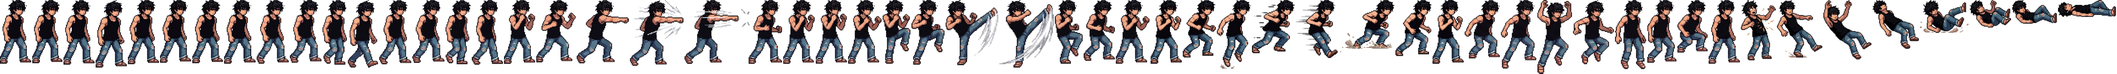
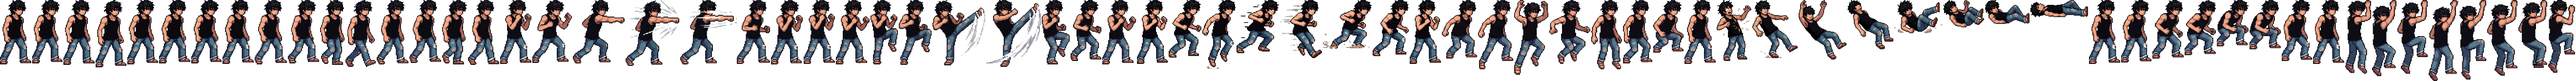
Rod: sprites de agachar e escalar; borda branca do JPG removida dos sprites
Claude-Session: https://claude.ai/code/session_01ELunBH6xPqmejkKKecMgg3

diff --git a/js/rod_sprite.js b/js/rod_sprite.js
@@ -2,8 +2,9 @@
 //  SPRITES DO ROD (assets/rod.png) — arte do autor (fundo branco removido, 0,32×)
 //  idle0..7 parado · walk0..7 andando · punch0..7 soco · kick0..7 chute
 //  dash0..7 esquiva/arrancada · jump0..7 pulo · hurt0 dano, hurt1..7 queda (morte)
+//  crouch0..7 agachar (0-4 descendo, 5-7 levantando) · climb0..7 escalando (parede à direita)
 //  Cada quadro: [x, y, largura, altura, âncoraX, âncoraY (pés)]
 // =============================================================
-const ROD_FRAMES = {"idle0": [0, 0, 64, 132, 35.8, 131.8], "idle1": [66, 0, 62, 131, 37.6, 130.6], "idle2": [130, 0, 64, 134, 36.2, 134.1], "idle3": [196, 0, 64, 140, 36.0, 139.5], "idle4": [262, 0, 64, 133, 37.6, 133.1], "idle5": [328, 0, 64, 130, 37.6, 130.2], "idle6": [394, 0, 63, 131, 37.9, 130.9], "idle7": [459, 0, 65, 132, 36.3, 131.8], "walk0": [526, 0, 66, 132, 38.1, 132.2], "walk1": [594, 0, 65, 130, 39.0, 130.2], "walk2": [661, 0, 50, 134, 30.1, 134.1], "walk3": [713, 0, 62, 140, 35.8, 139.5], "walk4": [777, 0, 66, 133, 39.0, 132.8], "walk5": [845, 0, 66, 130, 38.9, 129.9], "walk6": [913, 0, 52, 133, 32.5, 132.8], "walk7": [967, 0, 64, 134, 35.2, 134.1], "punch0": [1033, 0, 64, 132, 37.6, 131.5], "punch1": [1099, 0, 81, 129, 51.8, 129.3], "punch2": [1182, 0, 107, 131, 56.8, 130.6], "punch3": [1291, 0, 110, 136, 62.6, 135.7], "punch4": [1403, 0, 114, 132, 60.0, 131.8], "punch5": [1519, 0, 84, 132, 39.5, 131.8], "punch6": [1605, 0, 65, 132, 38.2, 131.8], "punch7": [1672, 0, 64, 132, 37.8, 131.8], "kick0": [1738, 0, 69, 132, 36.3, 132.2], "kick1": [1809, 0, 57, 132, 24.0, 132.5], "kick2": [1868, 0, 68, 134, 32.6, 134.1], "kick3": [1938, 0, 108, 135, 55.8, 134.7], "kick4": [2048, 0, 112, 140, 63.5, 139.8], "kick5": [2162, 0, 57, 132, 25.0, 132.2], "kick6": [2221, 0, 64, 126, 38.9, 125.8], "kick7": [2287, 0, 69, 132, 36.0, 131.8], "dash0": [2358, 0, 64, 132, 36.3, 131.8], "dash1": [2424, 0, 68, 119, 47.2, 119.4], "dash2": [2494, 0, 70, 142, 47.5, 141.8], "dash3": [2566, 0, 88, 110, 60.0, 109.8], "dash4": [2656, 0, 93, 120, 47.0, 120.0], "dash5": [2751, 0, 107, 101, 84.6, 100.8], "dash6": [2860, 0, 74, 116, 55.4, 115.5], "dash7": [2936, 0, 64, 132, 34.9, 131.5], "jump0": [3002, 0, 72, 121, 53.1, 120.6], "jump1": [3076, 0, 73, 142, 49.1, 142.4], "jump2": [3151, 0, 71, 153, 35.2, 153.3], "jump3": [3224, 0, 84, 133, 44.6, 133.4], "jump4": [3310, 0, 64, 143, 37.9, 143.0], "jump5": [3376, 0, 60, 130, 36.3, 130.2], "jump6": [3438, 0, 62, 109, 39.2, 109.1], "jump7": [3502, 0, 64, 132, 34.9, 131.8], "hurt0": [3568, 0, 72, 125, 38.2, 125.4], "hurt1": [3642, 0, 93, 119, 53.1, 119.0], "hurt2": [3737, 0, 99, 123, 66.6, 122.6], "hurt3": [3838, 0, 95, 101, 67.2, 101.4], "hurt4": [3935, 0, 100, 68, 44.5, 68.5], "hurt5": [4037, 0, 85, 57, 48.8, 56.6], "hurt6": [4124, 0, 92, 49, 51.8, 49.3], "hurt7": [4218, 0, 119, 35, 60.2, 35.2]};
+const ROD_FRAMES = {"idle0": [0, 0, 64, 132, 35.0, 131.5], "idle1": [66, 0, 62, 130, 37.3, 129.9], "idle2": [130, 0, 64, 133, 35.0, 133.4], "idle3": [196, 0, 63, 138, 36.0, 137.6], "idle4": [261, 0, 63, 132, 37.3, 132.5], "idle5": [326, 0, 64, 130, 36.8, 129.6], "idle6": [392, 0, 62, 130, 37.4, 130.2], "idle7": [456, 0, 64, 131, 35.0, 131.2], "walk0": [522, 0, 66, 132, 37.0, 131.5], "walk1": [590, 0, 64, 130, 38.7, 129.9], "walk2": [656, 0, 50, 133, 30.2, 133.4], "walk3": [708, 0, 62, 137, 35.8, 137.3], "walk4": [772, 0, 65, 132, 38.9, 132.2], "walk5": [839, 0, 65, 129, 38.6, 129.3], "walk6": [906, 0, 51, 132, 32.2, 132.2], "walk7": [959, 0, 64, 133, 35.2, 133.4], "punch0": [1025, 0, 64, 131, 37.4, 130.9], "punch1": [1091, 0, 81, 129, 51.4, 128.6], "punch2": [1174, 0, 106, 130, 55.7, 129.9], "punch3": [1282, 0, 110, 135, 62.2, 135.4], "punch4": [1394, 0, 110, 132, 64.8, 131.5], "punch5": [1506, 0, 72, 131, 47.0, 131.2], "punch6": [1580, 0, 65, 132, 37.9, 131.5], "punch7": [1647, 0, 64, 131, 37.6, 130.9], "kick0": [1713, 0, 69, 132, 35.0, 131.5], "kick1": [1784, 0, 56, 132, 23.7, 132.2], "kick2": [1842, 0, 67, 133, 31.7, 133.4], "kick3": [1911, 0, 108, 134, 56.0, 134.1], "kick4": [2021, 0, 112, 137, 63.7, 137.3], "kick5": [2135, 0, 57, 132, 24.0, 131.5], "kick6": [2194, 0, 63, 125, 38.7, 125.1], "kick7": [2259, 0, 69, 132, 35.0, 131.5], "dash0": [2330, 0, 63, 131, 35.2, 131.2], "dash1": [2395, 0, 67, 118, 46.7, 118.4], "dash2": [2464, 0, 68, 141, 46.6, 141.4], "dash3": [2534, 0, 87, 109, 60.0, 109.4], "dash4": [2623, 0, 86, 119, 46.1, 119.4], "dash5": [2711, 0, 100, 100, 77.6, 100.2], "dash6": [2813, 0, 74, 115, 54.9, 114.9], "dash7": [2889, 0, 64, 131, 34.6, 131.2], "jump0": [2955, 0, 72, 120, 52.3, 120.0], "jump1": [3029, 0, 72, 142, 47.5, 141.8], "jump2": [3103, 0, 70, 153, 34.9, 152.6], "jump3": [3175, 0, 84, 131, 44.6, 131.2], "jump4": [3261, 0, 63, 142, 37.6, 142.4], "jump5": [3326, 0, 60, 130, 35.0, 129.9], "jump6": [3388, 0, 62, 108, 39.2, 108.5], "jump7": [3452, 0, 64, 131, 35.0, 131.2], "hurt0": [3518, 0, 71, 125, 37.9, 124.8], "hurt1": [3591, 0, 93, 119, 51.7, 118.7], "hurt2": [3686, 0, 98, 122, 66.4, 121.9], "hurt3": [3786, 0, 94, 101, 66.9, 101.1], "hurt4": [3882, 0, 98, 68, 46.6, 67.8], "hurt5": [3982, 0, 84, 56, 48.3, 56.0], "hurt6": [4068, 0, 91, 49, 51.8, 48.6], "hurt7": [4161, 0, 118, 35, 59.7, 34.9], "crouch0": [4281, 0, 64, 131, 34.9, 130.9], "crouch1": [4347, 0, 62, 128, 38.2, 128.3], "crouch2": [4411, 0, 64, 120, 43.7, 119.7], "crouch3": [4477, 0, 64, 113, 45.1, 112.6], "crouch4": [4543, 0, 65, 95, 46.2, 95.0], "crouch5": [4610, 0, 64, 101, 41.8, 100.8], "crouch6": [4676, 0, 62, 125, 39.4, 124.8], "crouch7": [4740, 0, 64, 131, 35.2, 130.9], "climb0": [4806, 0, 53, 151, 28.8, 151.0], "climb1": [4861, 0, 50, 156, 25.0, 156.2], "climb2": [4913, 0, 62, 151, 35.2, 151.0], "climb3": [4977, 0, 61, 166, 34.9, 166.4], "climb4": [5040, 0, 55, 163, 27.5, 162.9], "climb5": [5097, 0, 62, 155, 34.6, 154.6], "climb6": [5161, 0, 59, 139, 33.3, 138.9], "climb7": [5222, 0, 55, 149, 28.8, 149.4]};
 const rodImg = new Image();
 rodImg.src = 'assets/rod.png?v=' + ASSET_V;

diff --git a/js/render.js b/js/render.js
@@ -376,7 +376,10 @@ function shadowAt(x, y, w) {
 
 // poses do Rod (socos/chutes, esquiva com dash, pulo em fases)
 function rodPose(p) {
-  if (p.wall) return 'jump4';
+  // agachar: desce (crouch2→4) e, ao soltar, levanta (crouch5→6)
+  if (p.crouch) { if (p._cStart == null) p._cStart = G.time; p._uStart = null; }
+  else if (p._cStart != null) { p._cStart = null; p._uStart = G.time; }
+  if (p.wall) return 'climb' + (Math.floor(p.climbAnim / 6) % 8);
   if (p.dashT > 0) return p.rollPose();
   if (p.stun > 0) return p.stun > 0.12 ? 'hurt0' : 'hurt1';
   if (p.atkKind) {
@@ -384,7 +387,8 @@ function rodPose(p) {
     const seq = p.atkKind === 'kick' ? [1, 2, 3, 4, 5, 6] : [1, 2, 3, 4, 5, 6];
     return p.atkKind + seq[Math.min(5, Math.floor(prog * 6))];
   }
-  if (p.crouch) return 'jump6';
+  if (p.crouch) { const t = G.time - p._cStart; return t < 0.04 ? 'crouch2' : t < 0.08 ? 'crouch3' : 'crouch4'; }
+  if (p._uStart != null && p.onGround && Math.abs(p.vx) < 15 && G.time - p._uStart < 0.1) return G.time - p._uStart < 0.05 ? 'crouch5' : 'crouch6';
   if (p.sprintT > 0) return 'dash' + (Math.floor(G.time * 20) % 2 ? 4 : 3);
   if (!p.onGround) return p.vy < -150 ? 'jump2' : p.vy < 90 ? 'jump3' : 'jump4';
   if (Math.abs(p.vx) > 15) return 'walk' + (Math.floor(p.anim / 7) % 8);
@@ -469,8 +473,8 @@ function drawPlayer() {
   const pose = heroPose(p);
   const alpha = p.inv > 0 && Math.floor(p.inv * 12) % 2 === 0 ? 0.35 : 1;
   if (p.wall && isRod()) {                                 // Rod agarrado: encosta na parede
-    const wx = p.wall < 0 ? p.x * AP + 14 : (p.x + p.w) * AP - 14;
-    drawRod('jump4', wx, Math.round((p.y + p.h) * AP), p.wall, alpha, p.wall * -0.15);
+    const wx = p.wall < 0 ? p.x * AP + 16 : (p.x + p.w) * AP - 16;
+    drawRod(pose, wx, Math.round((p.y + p.h) * AP) + 8, p.wall, alpha);
     return;
   }
   if (p.wall) {

diff --git a/css/style.css b/css/style.css
@@ -29,14 +29,14 @@ canvas#game {
 }
 #menu::before {                    /* preenche as sobras da tela com a própria arte desfocada */
   content: ""; position: absolute; inset: -40px;
-  background: url(../assets/menu_bg.jpg?v=20261019152327) center / cover no-repeat;
+  background: url(../assets/menu_bg.jpg?v=20261019153736) center / cover no-repeat;
   filter: blur(18px) brightness(.45);
 }
 #menu .stage {
   position: relative; container-type: inline-size;
   width: min(100vw, calc(100dvh * 2576 / 1405));
   aspect-ratio: 2576 / 1405;
-  background: url(../assets/menu_bg.jpg?v=20261019152327) center / 100% 100% no-repeat;
+  background: url(../assets/menu_bg.jpg?v=20261019153736) center / 100% 100% no-repeat;
   box-shadow: 0 0 60px rgba(0, 0, 0, .7);
 }
 /* brilho da joia da espada */
@@ -68,7 +68,7 @@ canvas#game {
 }
 #menu .item::before {             /* faixa vermelha com o dragão (só na opção selecionada) */
   content: ""; position: absolute; left: 0; top: 0; width: 100%; aspect-ratio: 540 / 145;
-  background: url(../assets/menu_band.png?v=20261019152327) 0 0 / 100% 100% no-repeat;
+  background: url(../assets/menu_band.png?v=20261019153736) 0 0 / 100% 100% no-repeat;
   opacity: 0; transition: opacity .15s; z-index: -1;
 }
 #menu .item.sel { color: #f0dfcc; }

diff --git a/js/engine.js b/js/engine.js
@@ -1,5 +1,5 @@
 // versão dos arquivos (atualizada pelo atualizar_versao.sh) — evita imagem antiga em cache
-const ASSET_V = '20261019152327';
+const ASSET_V = '20261019153736';
 
 // =============================================================
 //  MOTOR: constantes, estado global, colisão com blocos, partículas
